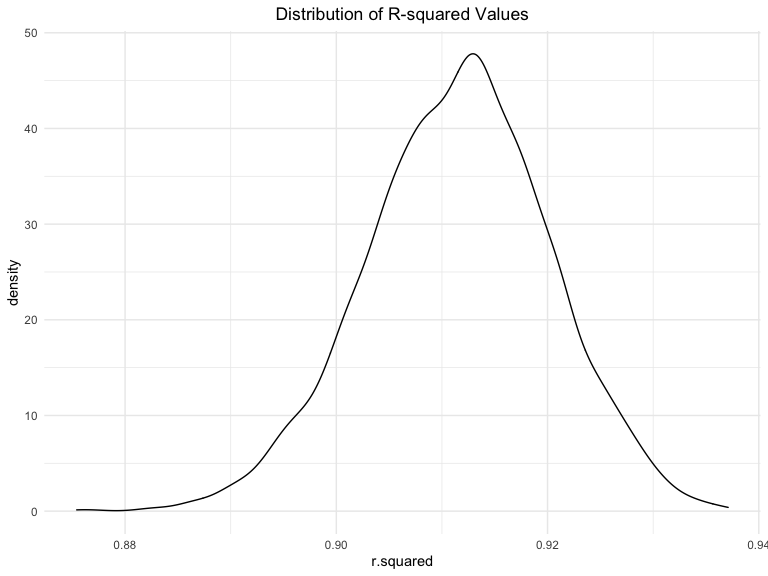
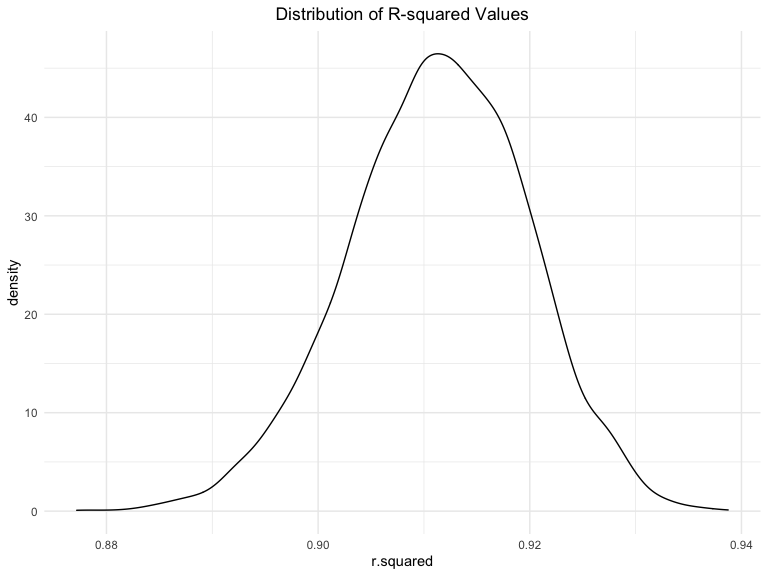
RMSE plot

diff --git a/p8105_hw6_yoa2102.md b/p8105_hw6_yoa2102.md
@@ -330,6 +330,15 @@ plot_hyp %>%
 
  
 
+##### Compare your hypothesized model with two others:
+
+  - One using length at birth and gestational age as predictors (main
+    effects only)
+  - One using head circumference, length, sex, and all interactions
+    (including the three-way interaction) between these
+
+ 
+
  
 
 ### Problem 3
@@ -489,10 +498,10 @@ results_rsq %>%
 ```
 
     ##      2.5%     97.5% 
-    ## 0.8939973 0.9279542
+    ## 0.8938447 0.9272448
 
 The 2.5% and 97.5% quantiles are computed above. The 95% confidence
-interval for r-squared across 5,000 bootstrap samples is (0.894, 0.928).
+interval for r-squared across 5,000 bootstrap samples is (0.894, 0.927).
 
 ``` r
 # Confidence interval for the distribution of log(B0*B1) values
@@ -504,8 +513,8 @@ results_log %>%
 ```
 
     ##     2.5%    97.5% 
-    ## 1.965135 2.058339
+    ## 1.966434 2.057808
 
 The 2.5% and 97.5% quantiles are computed above. The 95% confidence
-interval for log(B0\*B1) across 5,000 bootstrap samples is (1.965,
+interval for log(B0\*B1) across 5,000 bootstrap samples is (1.966,
 2.058).
